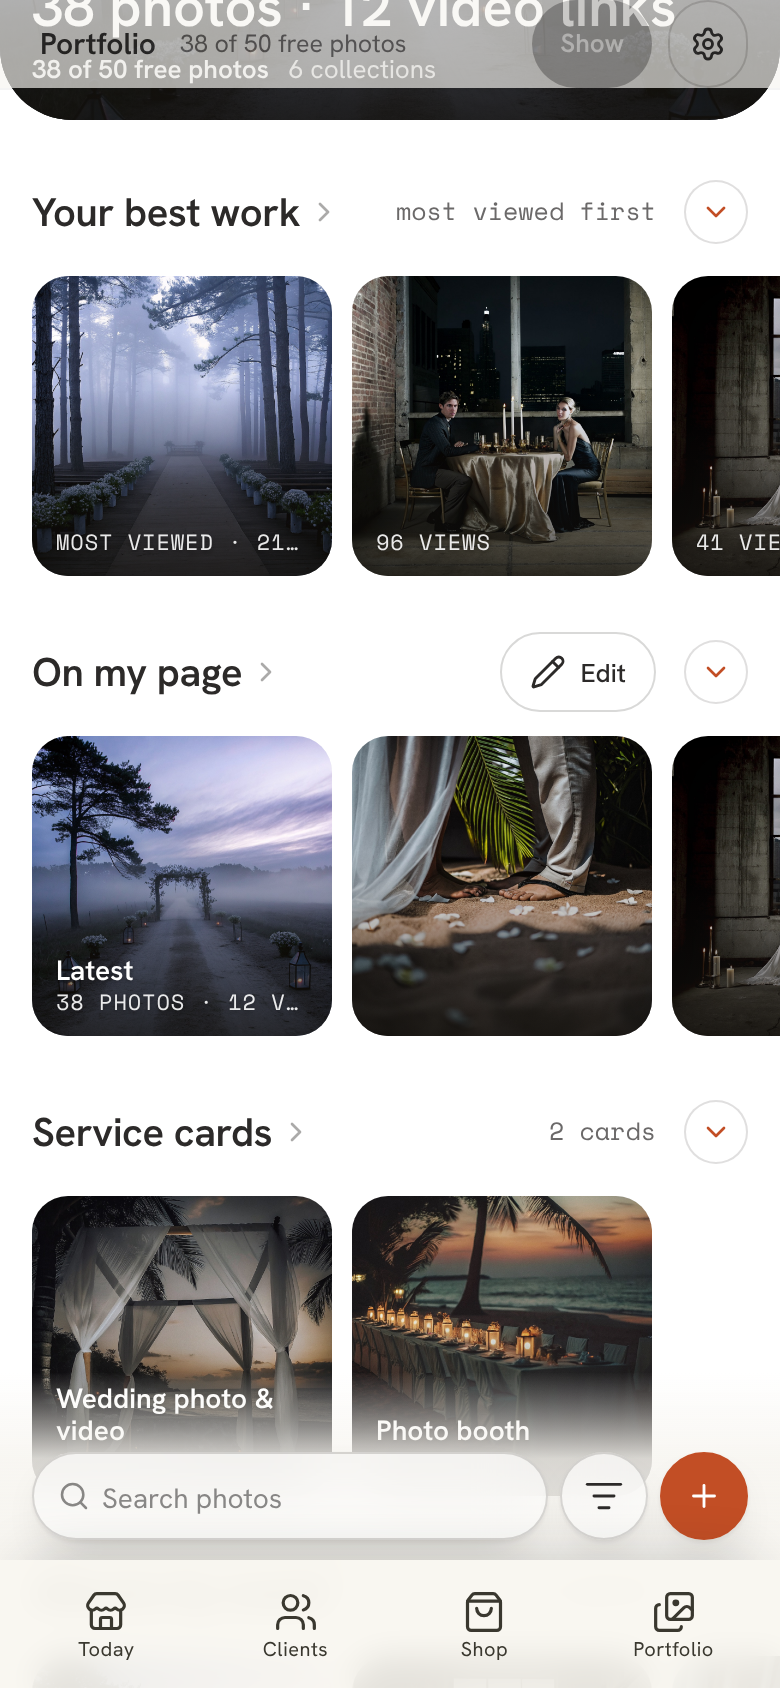
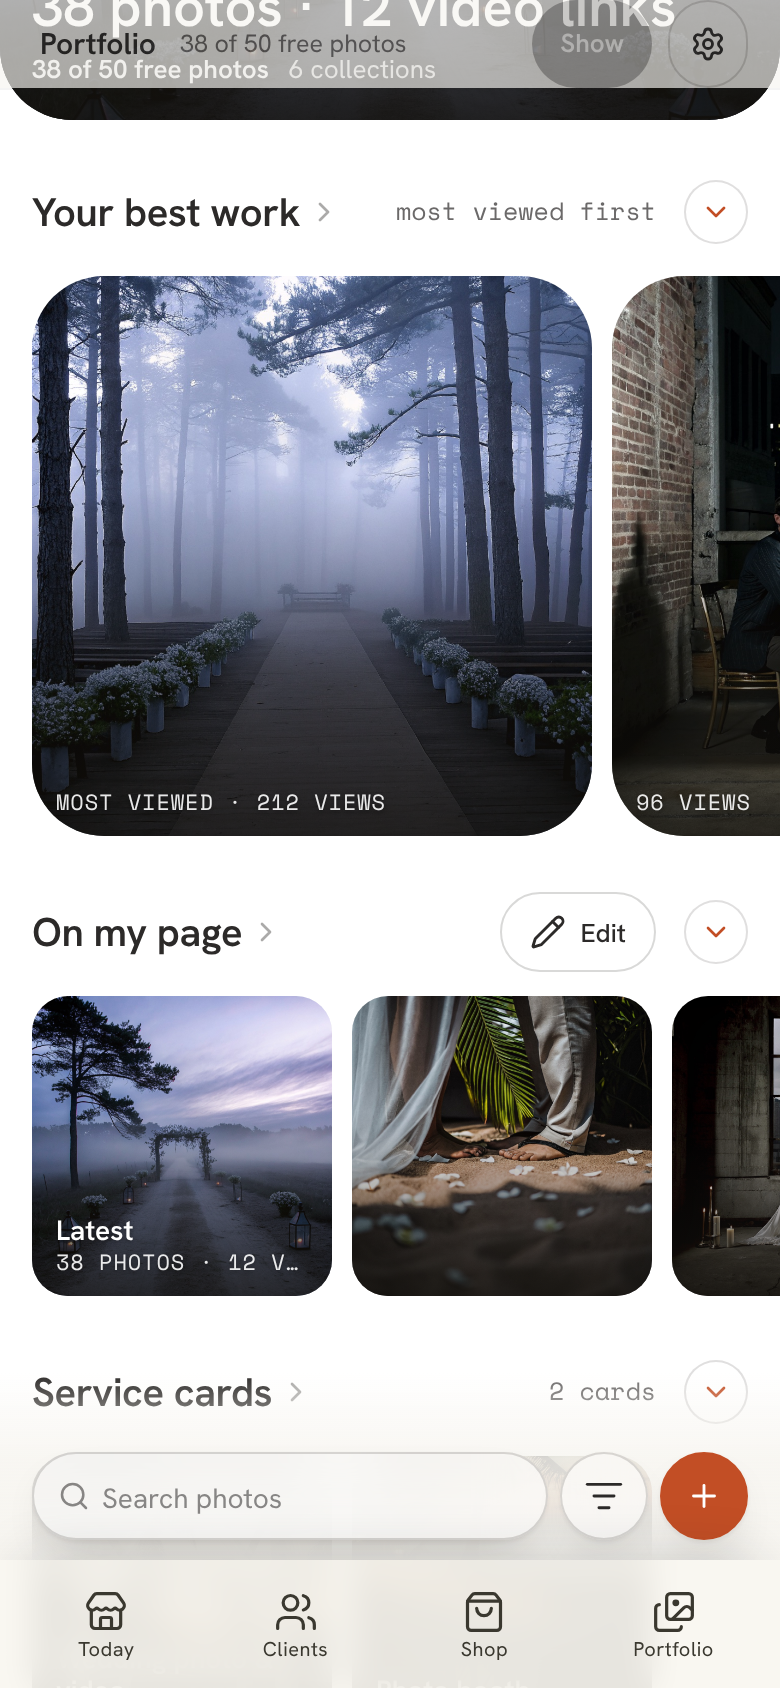
fix(viewer): the next photo slides in (strand check after commit); radius token; shots + index
Claude-Session: https://claude.ai/code/session_01EvosmWjJ9fnbs8SynjuBQb

diff --git a/apps/web/app/_components/gallery/gallery-lightbox.tsx b/apps/web/app/_components/gallery/gallery-lightbox.tsx
@@ -131,10 +131,10 @@ export function GalleryLightbox({
   const stageRef = useRef<HTMLDivElement>(null);
   /*
    * The slide is driven by the browser's own `transitionend`, never a timer (a photo surface never moves on a clock —
-   * `lib/photos-never-move-by-themselves.test.ts`). Phases: `out` (the photo leaves) → the caller moves → `pre` (the
+   * `lib/photos-never-move-by-themselves.test.ts`). Phases: `out` (the photo leaves) → `moved` (the caller moves) → `pre` (the
    * next one waits beyond the far edge, or invisible) → `in` (it lands) → done. `back` = a short drag springing home.
    */
-  const [slide, setSlide] = useState<{ x: number; ms: number; fade: boolean; phase: 'out' | 'pre' | 'in' | 'back'; dir: 1 | -1 } | null>(null);
+  const [slide, setSlide] = useState<{ x: number; ms: number; fade: boolean; phase: 'out' | 'moved' | 'pre' | 'in' | 'back'; dir: 1 | -1 } | null>(null);
   const enterFrom = useRef<0 | 1 | -1>(0);
   const srcNow = useRef(src);
   srcNow.current = src;
@@ -148,18 +148,21 @@ export function GalleryLightbox({
   const onSlideEnd = (e: React.TransitionEvent<HTMLDivElement>) => {
     if (e.target !== e.currentTarget || !slide) return;
     if (slide.phase === 'out') {
-      const was = srcNow.current;
+      srcAtOut.current = srcNow.current;
       enterFrom.current = slide.dir;
       (slide.dir > 0 ? onNext : onPrev)?.();
-      // The caller handed the same picture (or none): nothing will land — let go instead of stranding it off-screen.
-      requestAnimationFrame(() => {
-        if (srcNow.current === was) {
-          enterFrom.current = 0;
-          setSlide(null);
-        }
-      });
+      // Committed WITH the caller's move, so the check below sees the photo the caller handed (or the same one).
+      setSlide({ ...slide, phase: 'moved' });
     } else if (slide.phase === 'in' || slide.phase === 'back') setSlide(null);
   };
+  /* The caller handed the same picture (or none): nothing will land — let go instead of stranding it off-screen. */
+  const srcAtOut = useRef<string | null>(null);
+  useEffect(() => {
+    if (slide?.phase === 'moved' && srcNow.current === srcAtOut.current) {
+      enterFrom.current = 0;
+      setSlide(null);
+    }
+  }, [slide]);
   /* The next photo arrived: it starts beyond the far edge (or invisible, reduced) and lands in place. */
   useEffect(() => {
     const dir = enterFrom.current;

diff --git a/apps/web/app/vendor-dashboard/collections/_components/portfolio-sections.tsx b/apps/web/app/vendor-dashboard/collections/_components/portfolio-sections.tsx
@@ -194,7 +194,7 @@ export function Rail({ children, data }: { children: ReactNode; data: string }) 
 
 const TILE = 'relative block h-[150px] w-[150px] flex-none snap-start overflow-hidden rounded-card bg-ink/5 text-left';
 const TILE_BASE = TILE;
-const TILE_HERO = 'relative block h-[280px] w-[280px] max-w-[calc(100vw-56px)] flex-none snap-start overflow-hidden rounded-[24px] bg-ink/5 text-left';
+const TILE_HERO = 'relative block h-[280px] w-[280px] max-w-[calc(100vw-56px)] flex-none snap-start overflow-hidden rounded-3xl bg-ink/5 text-left';
 
 /** The face of a tile: the photo (or a quiet ground with the section's icon), the scrim, the name on the photo. */
 function TileFace({ name, sub, photo, icon }: { name: string; sub?: string | null; photo: string | null; icon?: ReactNode }) {

diff --git a/build-sessions/shots-portfolio-viewer-and-best-work/README.md b/build-sessions/shots-portfolio-viewer-and-best-work/README.md
@@ -1,0 +1,19 @@
+# Portfolio — rulings 5951 + 5940 · 390 px · Now beside Proposed
+
+Lab: `/dev/supplier-lab?s=portfolio-tab` (`&none=1` empty shop · `&unread=1` every read refused). Now = `origin/main`
+(d7adb5d8), Proposed = this branch. Playwright, iPhone-width 390 × 844, DPR 2.
+
+| Moment | Now | Proposed |
+|---|---|---|
+| First sections | `now-1-first-sections.png` | `proposed-1-first-sections.png` — **Your best work** first (most viewed, 280 px tiles) |
+| Closing rows | `now-2-closing-rows.png` | `proposed-2-closing-rows.png` — More, then **Reorder** |
+| A photo opened | `now-3-photo-opened.png` (hand-over Show, no actions) | `proposed-3-photo-opened.png` — the shared viewer, ‹ ›, **Send to a chat** |
+| Slide | — (snapped) | `proposed-3b-slide-out-mid.png` (a real frame, −342 px, frozen for the picture) → `proposed-3c-landed-4-of-10.png` |
+| Empty shop | `now-4-empty-first-sections.png` | `proposed-4-empty-first-sections.png` — best work keeps its title, Example, placeholder and Upload door |
+| Send to a chat | — | `proposed-5a…5d` — list · search "cruz" · confirm + note · "Posted in Cruz debut’s chat" |
+| Reorder | — | `proposed-6-reorder-sheet.png` (↑ ↓ per section; best work moved down one) |
+| Unread | — | `proposed-8-unread-first-sections.png` — "Couldn’t load this just now", no Example |
+
+Measured in the browser (Playwright, per animation frame, one › press): the photo travels 0 → −390 px in ~280 ms, then
+the next lands +390 → 0 px in ~280 ms; the counter reads "4 of 10" when it lands. Reduced motion: no travel at all; the
+house-wide reduced-motion rule (`globals.css`, transitions 0.001 ms) makes the fade instant, and the swap still completes.
